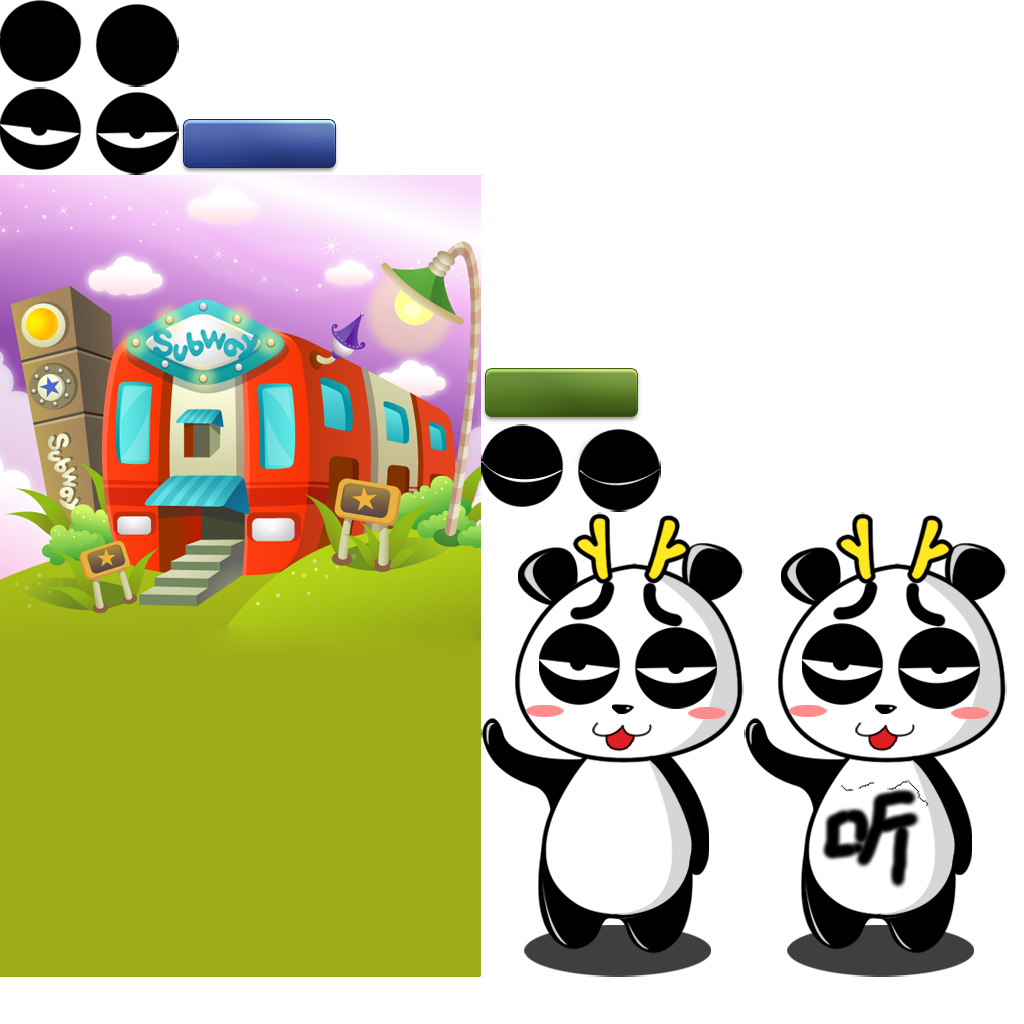
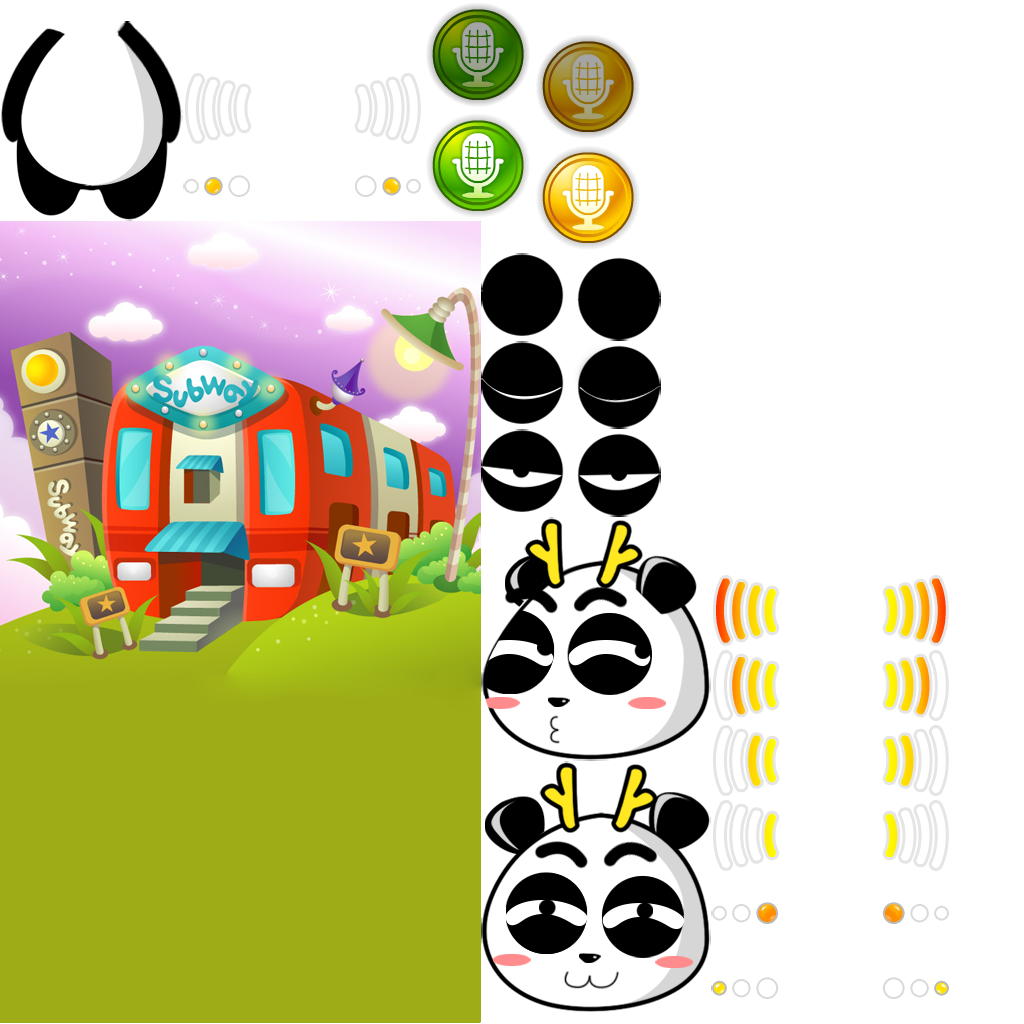
new images

diff --git a/EvilDragon/EvilDragon/src/com/zx/evildragon/sprite/Dragon.java b/EvilDragon/EvilDragon/src/com/zx/evildragon/sprite/Dragon.java
@@ -1,36 +1,55 @@
 package com.zx.evildragon.sprite;
 
 import info.u250.c2d.engine.Engine;
+import info.u250.c2d.engine.service.Renderable;
 import info.u250.c2d.graphic.AnimationSprite;
 
 import com.badlogic.gdx.graphics.g2d.TextureAtlas;
-import com.badlogic.gdx.graphics.g2d.TextureRegion;
 
-public class Dragon {
+public class Dragon implements Renderable {
 
-	public final AnimationSprite sprite;
+	public final AnimationSprite body;//TODO private
+	private final AnimationSprite eye;
+	private final AnimationSprite head;
 
-	private final TextureRegion[] keyFrames_all;
-	private final TextureRegion[] keyFrames_speak;
+//	private final TextureRegion[] keyFrames_all;
+//	private final TextureRegion[] keyFrames_speak;
 
 	public Dragon() {
-		sprite = new AnimationSprite(0.5f, Engine.resource("atlas",
-				TextureAtlas.class), "dragon");
-		keyFrames_all = sprite.getAnimationSpriteData().keyFrames;
+		TextureAtlas atlas = Engine.resource("atlas");
+		body = new AnimationSprite(0.5f, atlas, "dragonbody");
+		eye = new AnimationSprite(0.5f, atlas, "dragoneye");
+		head = new AnimationSprite(0.5f, atlas, "dragonhead");
 
-		keyFrames_speak = new TextureRegion[2];
-		keyFrames_speak[0] = keyFrames_all[0];
-		keyFrames_speak[1] = keyFrames_all[1];
-		sprite.stop();
-		sprite.setLoopTimes(3);
+//		keyFrames_all = body.getAnimationSpriteData().keyFrames;
+//
+//		keyFrames_speak = new TextureRegion[2];
+//		keyFrames_speak[0] = keyFrames_all[0];
+//		keyFrames_speak[1] = keyFrames_all[1];
+		eye.setVisible(false);
+		
+		head.stop();
+		head.setLoopTimes(10);
+		body.stop();
+		body.setLoopTimes(3);
 	}
 
 	public void render(float delta) {
-		sprite.render(delta);
+		body.render(delta);
+		head.render(delta);
+		eye.render(delta);
+	}
+
+	public void setPosition(float x, float y) {
+		body.setPosition(x, y);
+		head.setPosition(body.getX()-20, body.getY()+body.getHeight()-30);
 	}
 
 	public void speak() {
-		sprite.getAnimationSpriteData().keyFrames = keyFrames_speak;
-		sprite.replay();
+		
+	}
+	
+	public void listen(){
+		head.replay();
 	}
 }

diff --git a/EvilDragon/EvilDragon/src/com/zx/evildragon/scenes/SceneMain.java b/EvilDragon/EvilDragon/src/com/zx/evildragon/scenes/SceneMain.java
@@ -25,7 +25,7 @@ public class SceneMain implements Scene, UIEventListener {
 
 		bg = new Image(atlas.findRegion("bg"));
 		dragon = new Dragon();
-		dragon.sprite.setPosition((Engine.getWidth()-dragon.sprite.getWidth())/2, 150);
+		dragon.setPosition((Engine.getWidth()-dragon.body.getWidth())/2, 150);
 
 		ui = new UIStage(this);
 	}
@@ -39,7 +39,7 @@ public class SceneMain implements Scene, UIEventListener {
 	public void render(float delta) {
 		Engine.getSpriteBatch().begin();
 		bg.draw(Engine.getSpriteBatch(), 1);
-		dragon.sprite.render(delta);
+		dragon.render(delta);
 		Engine.getSpriteBatch().end();
 		ui.draw();
 	}
@@ -64,7 +64,7 @@ public class SceneMain implements Scene, UIEventListener {
 	@Override
 	public void performTalkEvent() {
 		Gdx.app.debug("debug", "talk");
-
+		dragon.listen();
 	}
 
 }

diff --git a/EvilDragon/EvilDragon-android/src/com/zx/evildragon/Talk.java b/EvilDragon/EvilDragon-android/src/com/zx/evildragon/Talk.java
@@ -161,7 +161,7 @@ public class Talk implements ITalk {
 					});
 				}
 				
-				isrDialog.hide();
+//				isrDialog.hide();
 				
 			}
 		});
